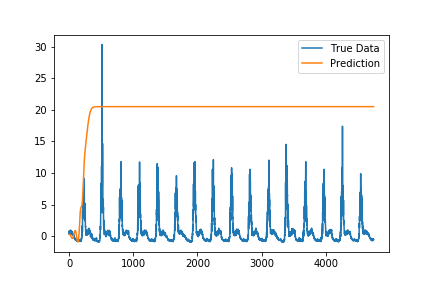
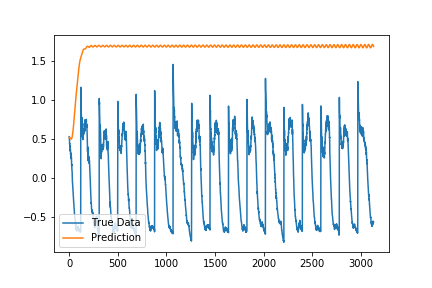
add the fliter and only care about the traffic between 6:00-22:00

diff --git a/lstm1.py b/lstm1.py
@@ -18,16 +18,23 @@ def load_data(filename, seq_len, normalise_window):
     f = open(filename, 'rb').read()
     data = f.split(str.encode('\n'))
 
+    # for i in range(len(data)):
+    #     data[i] = int(data[i])
+    
     for i in range(len(data)):
-        data[i] = int(data[i])
-
+        if i > 5:
+            data[i] = (int(data[i])+data[i-1]+data[i-2]+data[i-3]+data[i-4])/5
+        else:
+            data[i] = int(data[i])
+    
     print('data len:',len(data))
     print('sequence len:',seq_len)
 
     sequence_length = seq_len + 1
     result = []
     for index in range(len(data) - sequence_length):
-        result.append(data[index: index + sequence_length])  #得到长度为seq_len+1的向量，最后一个作为label
+        if sum( [ int(index>73 + i * 288 and index<264 + i * 288) for i in range(47520//288) ] ) > 0:
+            result.append(data[index: index + sequence_length])  #得到长度为seq_len+1的向量，最后一个作为label
 
     print('result len:',len(result))
     print('result shape:',np.array(result).shape)
@@ -43,6 +50,8 @@ def load_data(filename, seq_len, normalise_window):
 
     #划分train、test
     row = round(0.9 * result.shape[0])
+    # print(row)
+    # input()
     train = result[:row, :]
     np.random.shuffle(train)
     x_train = train[:, :-1]
@@ -178,10 +187,34 @@ if __name__=='__main__':
 
     np.savetxt('n1.csv',real_data)
     np.savetxt('n2.csv',real_pre)
+
+    error = 0
+    for i in range(len(point_by_point_predictions)):
+        error += abs(point_by_point_predictions[i]-y_test[i])/(y_test[i]+1.1)
+    error /= len(point_by_point_predictions)
+    print('error1',error)
+    #%%
+    error = 0
+    for i in range(len(point_by_point_predictions)):
+        error += abs(real_data[i]-real_pre[i])/real_data[i]
+
+    error /= len(point_by_point_predictions)
+    print('error2',error)
+    #%% 
+    print('~')
+    plt.figure()
+    plt.plot(real_data[:200])
+    plt.plot(real_pre[:200])
+    plt.show()
 #%%
+real_pre = []
+real_data = []
+for i in range(len(point_by_point_predictions)):
+    real_pre.append((point_by_point_predictions[i]+1) * jilu[28191+i])
+    real_data.append((y_test[i]+1) * jilu[28191+i])
 error = 0
 for i in range(len(point_by_point_predictions)):
-    error += abs(point_by_point_predictions[i]-y_test[i])/(y_test[i]+1.1)
+    error += abs(point_by_point_predictions[i]-y_test[i])/(y_test[i]+1.0)
 error /= len(point_by_point_predictions)
 print('error1',error)
 #%%
@@ -196,4 +229,12 @@ print('~')
 plt.figure()
 plt.plot(real_data[:200])
 plt.plot(real_pre[:200])
+plt.show()
+plt.figure()
+plt.plot(real_data[:400])
+plt.plot(real_pre[:400])
+plt.show()
+plt.figure()
+plt.plot(real_data[:800])
+plt.plot(real_pre[:800])
 plt.show()
